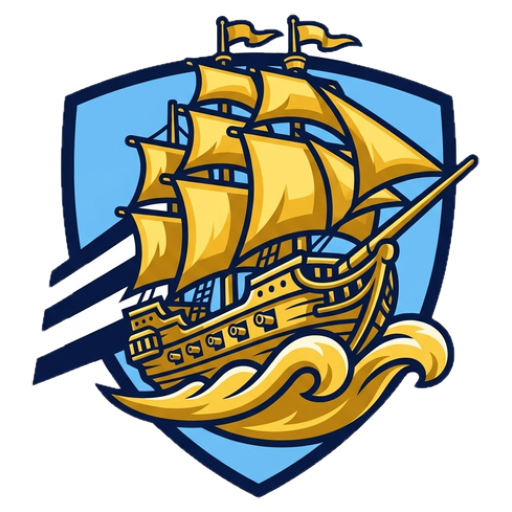
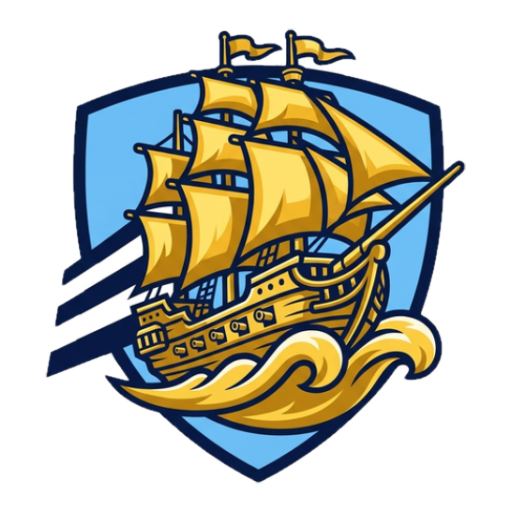
Man City crest: even white sticker edge like Arsenal

diff --git a/frontend/src/data/avatars.ts b/frontend/src/data/avatars.ts
@@ -33,7 +33,7 @@ const CLUB_BY_NAME = new Map(
 
 // "?v=" makes phones fetch a crest again after its picture is replaced
 // (Telegram's web view keeps the old file otherwise). Raise it with each new set.
-const CREST_VERSION = '2026-11-25'
+const CREST_VERSION = '2026-11-25b'
 export const clubBadge = (name?: string | null): string | null => {
   const src = (name && (CLUB_BY_NAME.get(name) || EXTRA_SHIELDS[name])) || null
   return src ? `${src}?v=${CREST_VERSION}` : null

diff --git a/changelogs/CHANGELOG-2026-11-22-release-2.2-prep.md b/changelogs/CHANGELOG-2026-11-22-release-2.2-prep.md
@@ -98,3 +98,4 @@ Files: `frontend/public/avatars/clubs/*.png` (512 px), `frontend/src/styles/Chal
 - 24 Nov: crest white edges cut DEPLOYED LIVE (release-2.1 e9e7ee6), verified.
 - 24 Nov: owner did not believe the live check. Live screenshot at 3x showed a grey shadow rim still on Arsenal + Dortmund (first cut took only bright white). Second cut (grey too, wider band; Arsenal widest) -> dev deployed + checked in the dev app, main e14f077 / release-2.1 3044fc0, live waiting for "deploy". LESSON: check at phone sharpness (3x) before saying done.
 - 25 Nov: tilts dropped. New crest style = simple sticker, shield straight from the front, even white edge (prompt in club-crests.md). Arsenal redrawn (bright red, fat cannon), original in betty-crests/v7, on DEV, checked at 3x. Live untouched. Next: same style for other clubs one by one.
+- 25 Nov: new Arsenal DEPLOYED LIVE (release-2.1 6d28083), checked live at 3x. Man City: white sticker edge added (same as Arsenal), dev deployed + checked at 3x; live waits for "deploy".
